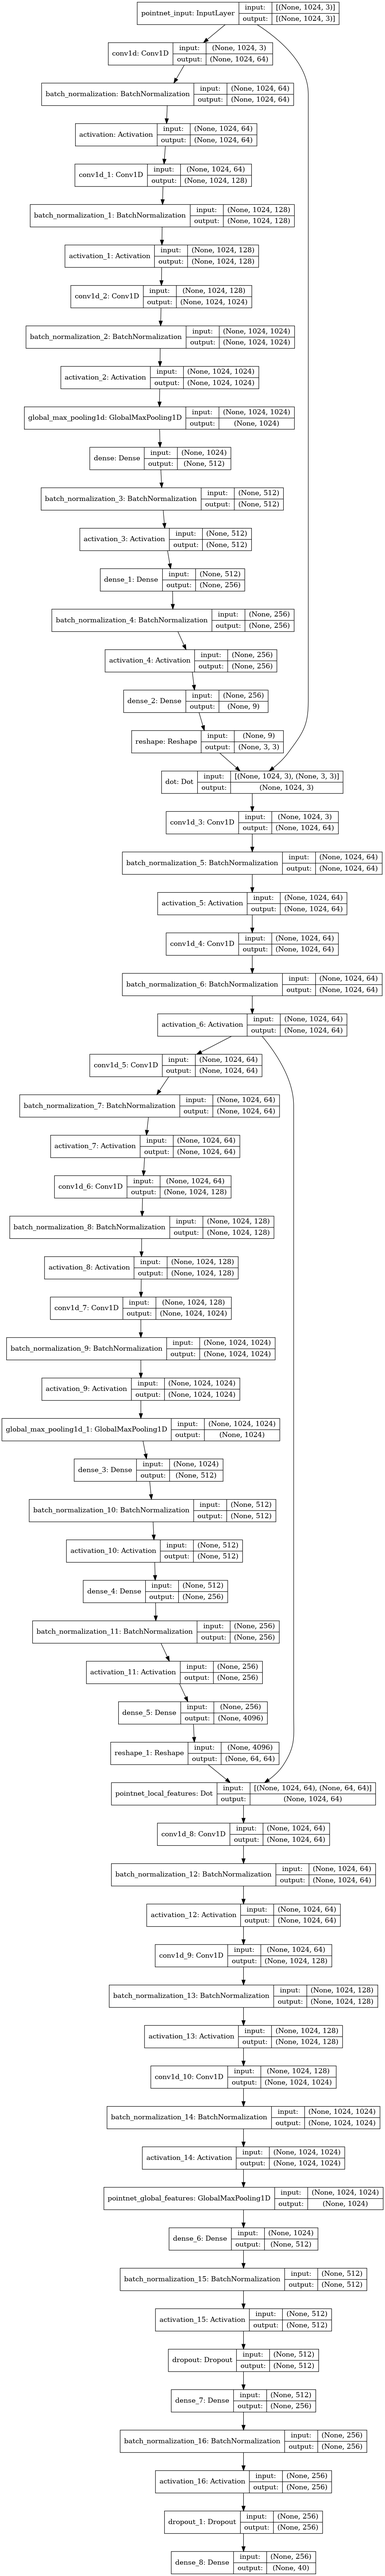
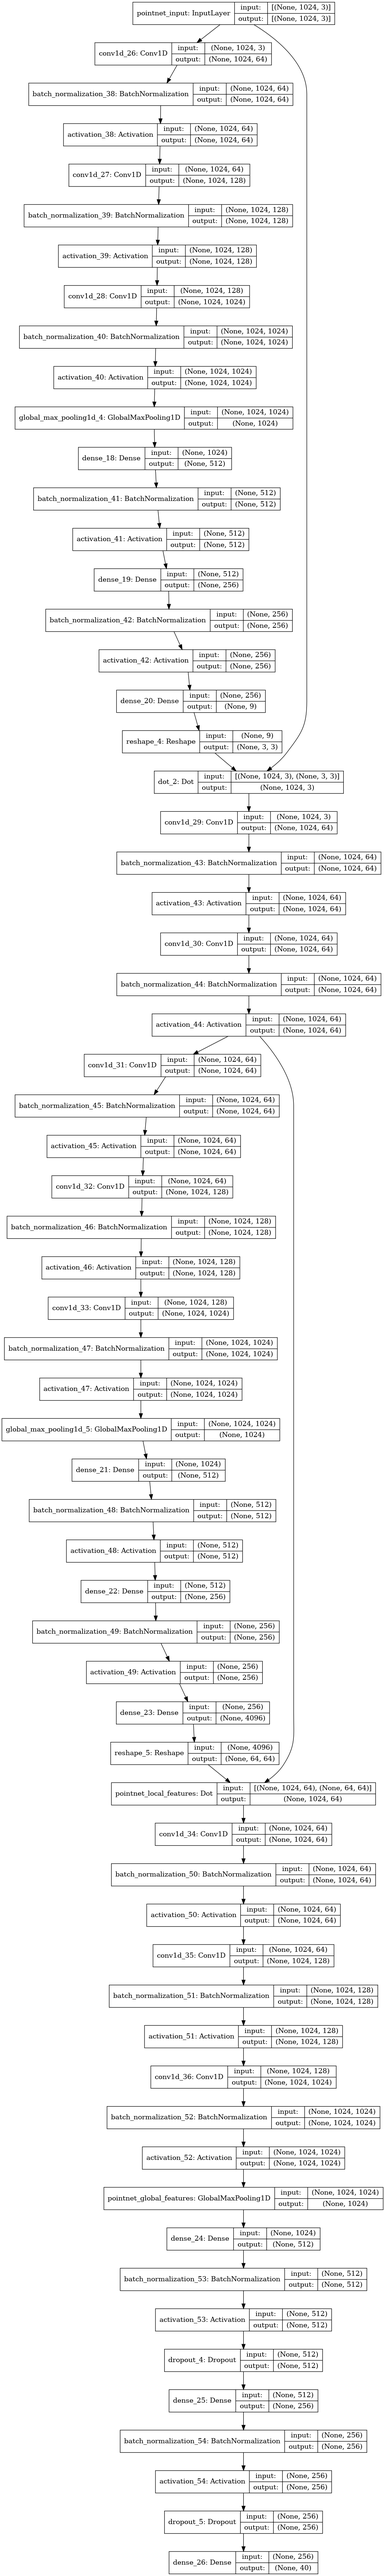
Update figure with PointNet architecture

diff --git a/tmp/plot_model.py b/tmp/plot_model.py
@@ -1,5 +1,6 @@
 import os
 import tensorflow as tf
+import corsnet.corsnet as corsnet
 import pointnet.pointnet as pointnet
 
 
@@ -7,7 +8,15 @@ NUM_POINTS = 1024
 NUM_CLASSES = 40
 BASE_DIR = os.path.dirname(os.path.abspath(__file__))
 
+# Plot CorsNet
+model = corsnet.get_model(num_points=NUM_POINTS)
+img_path = os.path.join(BASE_DIR, 'corsnet_architecture.png')
+tf.keras.utils.plot_model(model, to_file=img_path, show_shapes=True)
 
+# Plot PointNet
 model = pointnet.get_model(num_points=NUM_POINTS, num_classes=NUM_CLASSES)
 img_path = os.path.join(BASE_DIR, 'pointnet_architecture.png')
 tf.keras.utils.plot_model(model, to_file=img_path, show_shapes=True)
+
+# img_path =
+# tf.keras.utils.plot_model(model, to_file=img_path, show_shapes=True)
